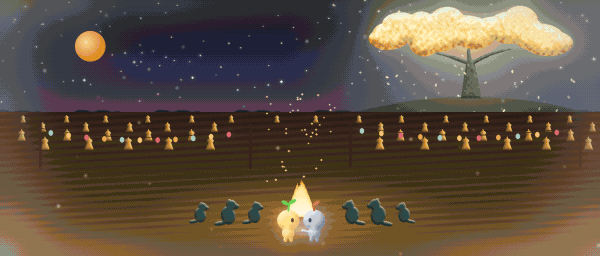
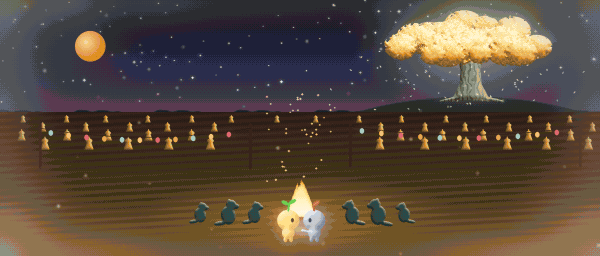
Ilustraciones: el Primer Árbol de los ecos 15 y 23 con racimos, tronco y raíces, y la pared de roca del lago (17) con volumen

Changed region(s): [[0.51, 0.0, 1.0, 0.4375]]

diff --git a/herramientas/cinematicas_sendero.py b/herramientas/cinematicas_sendero.py
@@ -66,33 +66,8 @@ SILUETA = ["#122020", "#1a2c2c", "#243b3a", "#2f4a48", "#3d5c58"]
 
 
 def _primer_arbol(lz, x, y, alto):
-    """El Primer Árbol en la colina: tronco ancho y retorcido, ramas como brazos y una copa enorme de luz dorada."""
-    # la luz que da (como un sol detrás de la copa)
-    halo = np.clip(1 - np.hypot((lz.x - x) / 190, (lz.y - (y - alto * 0.72)) / 120), 0, 1)
-    lz.sumar_luz(halo ** 1.6, "#ffe9a8", 0.75)
-    tronco = lz.poligono([(x - 9, y), (x - 6, y - alto * 0.3), (x - 3, y - alto * 0.55), (x + 3, y - alto * 0.55),
-                          (x + 7, y - alto * 0.3), (x + 11, y)])
-    for (a, b, c) in (((x - 2, y - alto * 0.5), (x - 22, y - alto * 0.62), (x - 38, y - alto * 0.66)),
-                      ((x + 2, y - alto * 0.5), (x + 20, y - alto * 0.66), (x + 40, y - alto * 0.7)),
-                      ((x, y - alto * 0.52), (x - 4, y - alto * 0.7), (x + 2, y - alto * 0.82))):
-        tronco = np.maximum(tronco, lz.trazo(lz.curva(a, b, c, n=20), 3.2, 1.0))
-    lz.sombrear(tronco, ["#2a3a30", "#3d4f40", "#566a52", "#7a8c66"], 4, LUZ, textura=lz.ruido(2, 3, semilla=121), fuerza_tex=0.3)
-    # la copa: muchas nubes de hojas doradas, más claras arriba
-    rng = np.random.default_rng(122)
-    copa = np.zeros((lz.H, lz.W))
-    for k in range(26):
-        a = rng.random() * math.pi
-        r = 20 + rng.random() * 46
-        cx, cy = x + math.cos(a) * r * 1.4, y - alto * 0.74 - math.sin(a) * r * 0.55
-        copa = np.maximum(copa, lz.elipse(cx, cy, 14 + rng.random() * 12, 9 + rng.random() * 7))
-    lz.sombrear(copa, DORADO + ["#fffbe8"], 10, (0.0, -1.0, 0.6), textura=lz.ruido(2.5, 3, semilla=123), fuerza_tex=0.35)
-    lz.sumar_luz(lz.desenfocar(copa, 10), "#ffe39a", 0.5)
-    # hojas de luz que caen de la copa
-    hojas = np.zeros((lz.H, lz.W))
-    for k in range(40):
-        hx, hy = x + (rng.random() - 0.5) * 220, y - alto * 0.6 + rng.random() * 70
-        hojas = np.maximum(hojas, lz.elipse(hx, hy, 1.4, 0.7, rng.random() * 180) * rng.random())
-    lz.sumar_luz(hojas, "#fff1c0", 0.9)
+    """El Primer Árbol en la colina, de lejos o de cerca: el mismo árbol de racimos dorados que en el primer eco."""
+    _arbol_dorado(lz, x, y, np.random.default_rng(122), escala=alto / 150)
 
 
 def _constructor(lz, x, y, e, mira, carga=False, tortuga=False, sem=0):
@@ -615,7 +590,7 @@ def eco_surcos():
     lz.pintar(lejos, "#141a24")
     loma = np.clip((lz.y - (HZ - 16 + 0.0012 * (lz.x - 470) ** 2)) / 1.5, 0, 1)
     lz.pintar(loma, "#1a2224")
-    _primer_arbol(lz, 470, HZ - 14, 70)
+    _primer_arbol(lz, 470, HZ - 12, 92)
     # los campos: franjas de rastrojo y gavillas en hileras, iluminadas por la hoguera
     campo = lz.y > HZ
     lz.pintar(campo, rampa(["#1a140c", "#2a2010", "#3e2e16", "#5a4420"], np.clip((lz.y - HZ) / 140 + (np.sin(lz.y * 0.9 + lz.x * 0.05) * 0.5 + 0.5) * 0.25, 0, 1)))
@@ -818,8 +793,25 @@ def kimya_lago():
     lz.pintar(arboles * (lz.y < HZ + 1), "#141a28")
     sauces = ci.mascara_bajo(lz, ci.linea_horizonte(lz, HZ - 4, 4, 14, 208))
     lz.pintar(sauces * (lz.y < HZ + 1), "#10141f")
-    pena = lz.poligono([(470, HZ + 2), (490, HZ - 26), (520, HZ - 30), (560, HZ - 22), (600, HZ - 34), (600, HZ + 2)])
-    lz.pintar(pena, "#1a1a2c")
+    # la pared de la Cañada: roca con escalones y grietas, iluminada de lado por el resplandor del horizonte
+    perfil = [(456, HZ + 2), (468, HZ - 8), (476, HZ - 10), (486, HZ - 24), (500, HZ - 27), (508, HZ - 22), (522, HZ - 31),
+              (540, HZ - 30), (552, HZ - 24), (566, HZ - 26), (578, HZ - 38), (592, HZ - 40), (600, HZ - 37), (600, HZ + 2)]
+    pena = lz.poligono(perfil)
+    estratos = (np.abs(np.sin((lz.y + lz.ruido(8, 2, semilla=209) * 6) * 0.9)) > 0.9) * 1.0
+    grietas = np.zeros((lz.H, lz.W))
+    for gx in (482, 514, 548, 584):
+        grietas = np.maximum(grietas, lz.trazo([(gx, HZ - 20), (gx + 3, HZ - 10), (gx - 1, HZ)], 0.6))
+    lz.sombrear(pena, ["#0a0a14", "#10121f", "#161a2a", "#1e2234", "#2a2c42", "#3a3a52"], 8, (-0.7, -0.5, 0.5),
+                textura=1 - estratos * 0.3 - grietas * 0.8, fuerza_tex=0.3)
+    canto = np.clip(pena - np.roll(pena, int(1.5 * lz.s), axis=1), 0, 1) + np.clip(pena - np.roll(pena, int(1.5 * lz.s), axis=0), 0, 1)
+    lz.pintar(np.clip(canto, 0, 1), "#a08aa0", 0.35)
+    # matas oscuras en lo alto de la pared
+    matas = np.zeros((lz.H, lz.W))
+    for (mx_, my_) in perfil[1:-1]:
+        for k in range(4):
+            hx = mx_ + rng.normal(0, 3)
+            matas = np.maximum(matas, lz.trazo([(hx, my_ + 1), (hx + rng.normal(0, 1), my_ - 2 - rng.random() * 3)], 0.5))
+    lz.pintar(matas, "#10141f")
     # el lago: un espejo. Refleja el cielo del revés (más oscuro) y la orilla lejana
     agua = (lz.y >= HZ).astype(float)
     filas = lz.img.shape[0]

diff --git a/documentacion/decisiones.md b/documentacion/decisiones.md
@@ -191,3 +191,5 @@ se pasan.
 | La fiesta (recuerdo 1) | Los castores eran siluetas negras: ahora la hoguera les ilumina la cara y el pecho, y hay un charco de luz en el suelo |
 | Pembe (9) | Rehecho con anatomía de ciervo: pecho hondo, anca, patas con rodilla, corvejón y pezuña, cuello largo que baja en reverencia, cabeza con hocico y oreja; musgo en manchitas en vez de rectángulos |
 | Manchas en los ecos | Los ecos (noche, agua, niebla) se veían sucios: la paleta no tenía esos tonos y los degradados saltaban a gris en manchas. Se añadieron 5 rampas a la paleta de cinemáticas (agua honda, verde agua, bruma, malva y nieve: 210 colores) y el marco de niebla de los recuerdos pasa a ser un velo suave hecho con la propia escena desenfocada |
+| El Primer Árbol en los ecos 15 y 23 | Era una nube amarilla con un palo; ahora usa el mismo árbol de racimos dorados, tronco y raíces que el primer eco (`_primer_arbol` llama a `_arbol_dorado`) |
+| La pared de la Cañada en el 17 | Era un polígono negro plano; ahora es roca con escalones, estratos, grietas, un canto iluminado por el horizonte y hierbas arriba |
